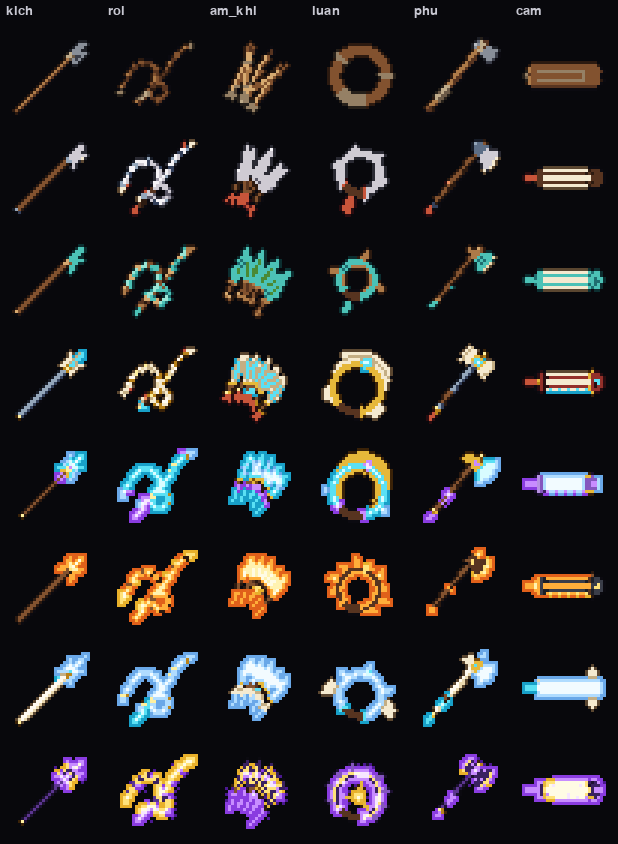
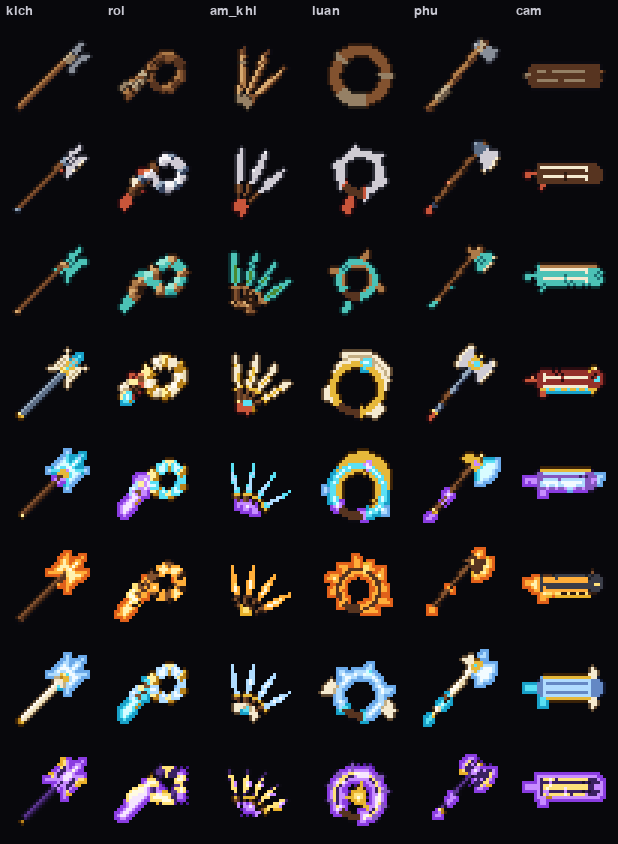
Toán tu tiên: kỳ binh vòng sửa 1-2: lưỡi nguyệt kích lớn, roi cuộn gọn, ám khí tách lưỡi, cầm có dây và nhạn trụ

diff --git a/art/src/weapons_c/models.py b/art/src/weapons_c/models.py
@@ -74,7 +74,7 @@ def crescent(s, zc, R, th, alpha=65.0, gap=0.02, x0=0.036, n=12, teeth=0):
 def kich(w, g):
     T = TH[g]
     sk = {1: "wood", 2: "wood_d", 3: "wood_d", 4: "iron_d", 5: "gold_dk", 6: "gold_dk", 7: "ice_w", 8: "purple"}[g]
-    base = 1.0
+    base = 0.84
     shaft(w, sk, -0.24, base + 0.04, 0.036)
     grip_block(w, g, 0.03)
     butt = {1: "wood_d", 2: "iron_d", 3: "bronze", 4: "gold", 5: "gold", 6: "gold_dk", 7: "gold", 8: "gold"}[g]
@@ -86,10 +86,10 @@ def kich(w, g):
     # socket collar
     sock = {1: "hemp", 2: "iron_d", 3: "bronze", 4: "gold", 5: "gold", 6: "gold_dk", 7: "gold", 8: "gold"}[g]
     w.cyl(sock, (0, 0, base + 0.02), 0.048, 0.04, 0.1, seg=8)
-    zc = base + 0.12
+    zc = base + 0.08
     # spear point
-    tip = {1: 1.42, 2: 1.45, 3: 1.46, 4: 1.5, 5: 1.52, 6: 1.52, 7: 1.52, 8: 1.56}[g]
-    hw = {1: 0.06, 2: 0.055, 3: 0.06, 4: 0.05, 5: 0.06, 6: 0.065, 7: 0.055, 8: 0.065}[g]
+    tip = base + {1: 0.38, 2: 0.42, 3: 0.44, 4: 0.48, 5: 0.5, 6: 0.5, 7: 0.5, 8: 0.54}[g]
+    hw = {1: 0.05, 2: 0.045, 3: 0.05, 4: 0.042, 5: 0.05, 6: 0.065, 7: 0.046, 8: 0.055}[g]
     if g == 6:      # wavy flame point
         pts = [(0.0, tip), (0.045, tip - 0.12), (0.02, tip - 0.15), (0.065, tip - 0.24), (0.035, tip - 0.27),
                (0.05, base + 0.2), (0.025, base + 0.07)]
@@ -107,13 +107,13 @@ def kich(w, g):
                                                     (0.01, tip - 0.1), (0.01, base + 0.14)], -0.022, -0.012, 0)
     # crescent side blades: one ("thanh long kich") up to grade 3, two ("phuong thien kich") from 4
     sides = (1,) if g <= 3 else (1, -1)
-    R = {1: 0.17, 2: 0.19, 3: 0.2, 4: 0.19, 5: 0.2, 6: 0.2, 7: 0.19, 8: 0.21}[g]
-    th = {1: 0.08, 2: 0.07, 3: 0.075, 4: 0.068, 5: 0.07, 6: 0.065, 7: 0.068, 8: 0.072}[g]
-    alpha = {1: 66, 2: 74, 3: 76, 4: 76, 5: 80, 6: 76, 7: 76, 8: 82}[g]
+    R = {1: 0.25, 2: 0.27, 3: 0.28, 4: 0.27, 5: 0.28, 6: 0.28, 7: 0.27, 8: 0.29}[g]
+    th = {1: 0.12, 2: 0.11, 3: 0.115, 4: 0.105, 5: 0.11, 6: 0.1, 7: 0.105, 8: 0.11}[g]
+    alpha = {1: 60, 2: 66, 3: 68, 4: 68, 5: 70, 6: 68, 7: 68, 8: 72}[g]
     for s in sides:
-        back, ed = crescent(s, zc, R, th, alpha, teeth=0.03 if g == 6 else 0)
+        back, ed = crescent(s, zc, R, th, alpha, gap=0.045, teeth=0.03 if g == 6 else 0)
         if g == 8:
-            b2, e2 = crescent(s, zc, R + 0.015, th + 0.025, alpha, gap=0.0)
+            b2, e2 = crescent(s, zc, R + 0.015, th + 0.025, alpha, gap=0.03)
             w.strip("violet", b2, [(x + s * 0.0, z) for x, z in e2], 0.008, 0.014)
         w.strip(blade, back, ed, -ty / 2, ty / 2)
         # bright cutting edge along the concave side
@@ -121,10 +121,10 @@ def kich(w, g):
         if g in (2, 4, 5, 7, 8):
             w.strip(edge if g != 8 else "gold_e", inner, ed, -ty / 2 - 0.004, -ty / 2 + 0.004)
         # two bars tie the crescent to the shaft
-        for dz in (-0.05, 0.05):
-            w.box(T["trim"] if g > 1 else "hemp", (s * 0.045, 0, zc + dz), (0.05, 0.03, 0.022), bevel=0.003)
+        for dz in (-0.06, 0.06):
+            w.box(T["trim"] if g > 1 else "hemp", (s * 0.06, 0, zc + dz), (0.06, 0.03, 0.026), bevel=0.003)
         if g == 1:   # hemp lashing over the stone
-            w.box("hemp", (s * 0.06, 0, zc), (0.05, 0.034, 0.05), bevel=0.004)
+            w.box("hemp", (s * 0.075, 0, zc), (0.05, 0.034, 0.05), bevel=0.004)
         if g == 7:
             wings(w, "ice_w", zc - 0.14, 3, 0.13, 0.045, rise0=-60, step=18, base_x=0.04, sides=(s,))
     if g == 1:
@@ -146,7 +146,7 @@ def kich(w, g):
         for s in (-1, 1):
             w.cyl("gold_dk", (s * 0.05, 0, base + 0.02), 0.022, 0.0, 0.09, rot=(0, s * 60, 0), seg=4)
     if g == 8:
-        stars(w, "star", [(-0.02, 1.3), (0.015, 1.4), (0.0, 1.22), (0.17, zc + 0.12), (-0.17, zc - 0.1)], -0.026, 0.015)
+        stars(w, "star", [(-0.02, base + 0.3), (0.015, base + 0.4), (0.0, base + 0.22), (0.17, zc + 0.12), (-0.17, zc - 0.1)], -0.026, 0.015)
 
 
 # ======================================================================= PHU (battle axe, ~0.95 m)
@@ -214,8 +214,8 @@ def phu(w, g):
         w.cyl("bronze", (0, 0, hc + 0.1), 0.04, 0.03, 0.04, seg=8)
     elif g == 4:  # double-bit steel, gold, teal gem
         for s in (1, -1):
-            out, ed = axe_blade(s, hc, 0.19, hc + 0.14, hc - 0.14, 0.045, neck=0.06)
-            w.poly(blade, out, -tb / 2, tb / 2, 0.006)
+            out, ed = axe_blade(s, hc, 0.19, hc + 0.19, hc - 0.19, 0.05, neck=0.045)
+            w.poly("iron", out, -tb / 2, tb / 2, 0.006)
             edge_band(w, edge, ed, s, 0.02, -tb / 2 - 0.004, tb / 2 + 0.004)
             w.box("gold", (s * 0.075, 0, hc), (0.03, tb + 0.012, 0.15), bevel=0.004)
         w.sph("teal", (0, -0.045, hc), 0.04, seg=6)
@@ -357,8 +357,8 @@ def roi_body(w, g, pose):
         tassel_dir(w, "hemp", p, d, 3, 0.07)
         return
     nseg = {2: 6, 3: 6, 4: 7, 5: 7, 6: 7, 7: 7, 8: 7}[g]
-    seg_key = {2: "iron", 3: "jade", 4: "steel", 5: "cyan", 6: "flame", 7: "ice", 8: "purple"}[g]
-    ring_key = {2: "iron_d", 3: "bronze", 4: "gold", 5: "gold", 6: "gold_dk", 7: "gold", 8: "gold_e"}[g]
+    seg_key = {2: "iron", 3: "jade", 4: "steel", 5: "cyan_n", 6: "flame_n", 7: "ice_n", 8: "purple"}[g]
+    ring_key = {2: "iron_d", 3: "bronze", 4: "gold", 5: "gold", 6: "gold_dk", 7: "gold", 8: "gold_e_n"}[g]
     r = {2: 0.028, 3: 0.03, 4: 0.03, 5: 0.03, 6: 0.032, 7: 0.03, 8: 0.032}[g]
     gapt = 0.012 / total
     for i in range(nseg):
@@ -366,11 +366,11 @@ def roi_body(w, g, pose):
         (a, _), (b, _) = at(t0), at(t1)
         rr = r * (1 - 0.15 * i / nseg)
         w.seg(seg_key, P(a, i), P(b, i), rr, rr, 8)
-        if g == 6:     # little flame licks on every other link
+        if g == 6 and pose == "lash":     # little flame licks on every other link
             if i % 2:
                 (m, d) = at((t0 + t1) / 2)
                 nx, nz = -d[1], d[0]
-                w.seg("flame_y", P(m, i), P((m[0] + nx * 0.05, m[1] + nz * 0.05), i), 0.016, 0.002, 4)
+                w.seg("flame_y", P(m, i), P((m[0] + nx * 0.035, m[1] + nz * 0.035), i), 0.01, 0.002, 4)
         p, _ = at(tip_t * (i + 1) / nseg)
         w.sph(ring_key, P(p, i), r * 1.2, seg=6)
     # the dart at the tip
@@ -378,7 +378,7 @@ def roi_body(w, g, pose):
     ang = math.degrees(math.atan2(d[0], d[1]))
     ln = {2: 0.08, 3: 0.09, 4: 0.1, 5: 0.1, 6: 0.11, 7: 0.1, 8: 0.11}[g]
     wd = {2: 0.03, 3: 0.034, 4: 0.04, 5: 0.036, 6: 0.04, 7: 0.036, 8: 0.042}[g]
-    tipk = {2: "steel", 3: "bronze", 4: "steel", 5: "cyan_hi", 6: "flame_y", 7: "ice_hi", 8: "gold_e"}[g]
+    tipk = {2: "steel", 3: "bronze", 4: "steel", 5: "cyan_hi_n", 6: "flame_y_n", 7: "ice_hi_n", 8: "gold_e_n"}[g]
     w.poly(tipk, leaf_pts(p, ang, ln, wd, widest=0.3, back=0.05), -0.012, 0.012, 0.003)
     if g == 7:
         for s in (-1, 1):
@@ -431,7 +431,7 @@ def dart(w, g, base, ang, flying=False):
     def p(t):
         return (base[0] + d[0] * t, base[1] + d[1] * t)
     T = TH[g]
-    bl = {1: "wood_l", 2: "iron", 3: "jade", 4: "steel", 5: "cyan", 6: "flame", 7: "ice", 8: "purple"}[g]
+    bl = {1: "wood_l", 2: "iron", 3: "jade", 4: "steel", 5: "cyan_n", 6: "flame_n", 7: "ice_n", 8: "purple"}[g]
     L = {1: 0.3, 2: 0.3, 3: 0.31, 4: 0.32, 5: 0.33, 6: 0.32, 7: 0.32, 8: 0.34}[g]
     if g == 1:   # sharpened bamboo dart, hemp fletching
         h0 = p(0.0)
@@ -458,32 +458,32 @@ def dart(w, g, base, ang, flying=False):
     # blade
     if g == 6:   # flame-shaped blade
         base_b = p(0.07)
-        w.poly(bl, leaf_pts(base_b, ang, L - 0.07, 0.034, widest=0.25), -0.012, 0.012, 0.003)
+        w.poly(bl, leaf_pts(base_b, ang, L - 0.07, 0.022, widest=0.25), -0.012, 0.012, 0.003)
         for s in (-1, 1):
-            w.poly("flame", leaf_pts(p(0.12), ang + s * 16, 0.12, 0.016), -0.01, 0.01, 0.002)
-        w.poly("flame_y", leaf_pts(p(0.1), ang, 0.12, 0.012), -0.02, -0.012, 0)
+            w.poly("flame_n", leaf_pts(p(0.1), ang + s * 14, 0.1, 0.01), -0.01, 0.01, 0.002)
+        w.poly("flame_y_n", leaf_pts(p(0.1), ang, 0.12, 0.012), -0.02, -0.012, 0)
     elif g == 5:  # glowing needle
-        w.poly(bl, leaf_pts(p(0.07), ang, L - 0.07, 0.02, widest=0.15), -0.01, 0.01, 0.002)
-        w.poly("cyan_hi", leaf_pts(p(0.09), ang, L - 0.13, 0.008, widest=0.15), -0.016, -0.008, 0)
+        w.poly(bl, leaf_pts(p(0.07), ang, L - 0.07, 0.014, widest=0.15), -0.01, 0.01, 0.002)
+        w.poly("cyan_hi_n", leaf_pts(p(0.09), ang, L - 0.13, 0.008, widest=0.15), -0.016, -0.008, 0)
         q = p(0.0)
         w.ico("violet", (q[0], -0.012, q[1]), 0.018)
     elif g == 7:  # ice shard with a pair of tiny wings at the tail
-        w.poly(bl, leaf_pts(p(0.07), ang, L - 0.07, 0.03, widest=0.5), -0.012, 0.012, 0.002)
-        w.poly("ice_hi", leaf_pts(p(0.1), ang, L - 0.15, 0.01, widest=0.5), -0.02, -0.012, 0)
+        w.poly(bl, leaf_pts(p(0.07), ang, L - 0.07, 0.02, widest=0.5), -0.012, 0.012, 0.002)
+        w.poly("ice_hi_n", leaf_pts(p(0.1), ang, L - 0.15, 0.01, widest=0.5), -0.02, -0.012, 0)
         for s in (-1, 1):
             w.poly("ice_w", leaf_pts(p(0.01), ang + 180 + s * 38, 0.08, 0.022), -0.01, 0.01, 0.002)
     elif g == 8:  # star blade
-        w.poly(bl, leaf_pts(p(0.07), ang, L - 0.07, 0.034, widest=0.4), -0.012, 0.012, 0.003)
-        w.poly("gold_e", leaf_pts(p(0.1), ang, L - 0.14, 0.01, widest=0.4), -0.02, -0.012, 0)
+        w.poly(bl, leaf_pts(p(0.07), ang, L - 0.07, 0.022, widest=0.4), -0.012, 0.012, 0.003)
+        w.poly("gold_e_n", leaf_pts(p(0.1), ang, L - 0.14, 0.01, widest=0.4), -0.02, -0.012, 0)
         q = p(0.0)
-        w.sph("star", (q[0], -0.012, q[1]), 0.02, seg=6)
+        w.sph("star_n", (q[0], -0.012, q[1]), 0.02, seg=6)
         q = p(L * 0.6)
-        w.box("star", (q[0] + 0.03, -0.02, q[1]), (0.028, 0.02, 0.028), bevel=0)
+        w.box("star_n", (q[0] + 0.03, -0.02, q[1]), (0.028, 0.02, 0.028), bevel=0)
     else:         # willow-leaf throwing knife
-        wd = {2: 0.036, 3: 0.04, 4: 0.04}[g]
+        wd = {2: 0.02, 3: 0.023, 4: 0.023}[g]
         w.poly(bl, leaf_pts(p(0.07), ang, L - 0.07, wd, widest=0.35), -0.012, 0.012, 0.003)
         if g >= 3:
-            w.poly(T["hi"] if g == 4 else "jade_d", leaf_pts(p(0.1), ang, L - 0.15, 0.009, widest=0.35),
+            w.poly("gold" if g == 4 else "jade_d", leaf_pts(p(0.1), ang, L - 0.15, 0.009, widest=0.35),
                    -0.02, -0.012, 0)
     # tails (cloth streamers) on the ring
     if g in (2, 4):
@@ -499,18 +499,19 @@ def dart(w, g, base, ang, flying=False):
 
 
 def am_khi(w, g):
-    n = {1: 3, 2: 3, 3: 4, 4: 5, 5: 5, 6: 5, 7: 5, 8: 5}[g]
-    spread = {1: 50, 2: 56, 3: 62, 4: 70, 5: 72, 6: 72, 7: 72, 8: 76}[g]
-    # in the hand: a fan between the fingers
+    n = {1: 3, 2: 3, 3: 4, 4: 4, 5: 4, 6: 4, 7: 4, 8: 5}[g]
+    step = {1: 22, 2: 22, 3: 19, 4: 21, 5: 24, 6: 24, 7: 24, 8: 20}[g]
+    # in the hand: a fan between the fingers (bases spread across the fist, tips fanned)
     w.pose = "hand"
     for k in range(n):
-        a = -spread / 2 + spread * k / max(1, n - 1)
+        off = k - (n - 1) / 2
+        a = off * step
         w.xf = geom.Matrix.Translation((0, (k % 2) * 0.012 - 0.006, 0))
-        dart(w, g, (math.sin(math.radians(a)) * 0.02, -0.02), a)
+        dart(w, g, (off * (0.035 if g < 5 else 0.045), -0.02 - abs(off) * 0.02), a)
     w.xf = geom.Matrix.Identity(4)
     if g >= 4:   # hub ornament where the blades cross
         hub = {4: "teal", 5: "violet", 6: "flame_y", 7: "cyan", 8: "star"}[g]
-        w.sph(hub, (0, -0.03, -0.01), 0.022, seg=6)
+        w.sph(hub, (0, -0.03, -0.05), 0.02, seg=6)
     # in flight: the blades spread side by side, pointing the same way
     w.pose = "fly"
     for k in range(n):
@@ -633,8 +634,8 @@ def zither_outline(g, L=0.4, Wd=0.085):
 
 def cam(w, g):
     T = TH[g]
-    L, Wd = 0.42, 0.11
-    body = {1: "wood", 2: "wood_d", 3: "jade", 4: "lacquer", 5: "purple_l", 6: "black", 7: "ice", 8: "purple"}[g]
+    L, Wd = 0.42, 0.13
+    body = {1: "wood_d", 2: "wood_d", 3: "jade", 4: "lacquer", 5: "purple_l", 6: "black", 7: "frost", 8: "purple"}[g]
     side = {1: "wood", 2: "lacq_d", 3: "jade_d", 4: "lacq_d", 5: "purple", 6: "black", 7: "ice_w", 8: "purple"}[g]
     th = 0.05
     out = zither_outline(g, L, Wd)
@@ -653,8 +654,11 @@ def cam(w, g):
     skey = {1: "hemp", 2: "string", 3: "string", 4: "string", 5: "cyan_hi", 6: "ember", 7: "ice_hi", 8: "gold_e"}[g]
     nstr = 3 if g == 1 else 4
     for i in range(nstr):
-        x = (i - (nstr - 1) / 2) * 0.05
+        x = (i - (nstr - 1) / 2) * 0.056
         w.box(skey, (x, -th / 2 - 0.016, -L * 0.15), (0.022, 0.008, L * 1.42), bevel=0)
+        # one movable bridge under each string, set in a slanting row (the zither's tell-tale)
+        zb = -L * 0.45 + i * 0.07
+        w.box(br, (x, -th / 2 - 0.012, zb), (0.03, 0.02, 0.03), bevel=0.003)
     # hui studs along the near edge (grade 2+)
     if g >= 2:
         hk = {2: "bone", 3: "jade_l", 4: "teal", 5: "violet", 6: "flame_y", 7: "cyan", 8: "star"}[g]
@@ -671,6 +675,10 @@ def cam(w, g):
     for s in (-1, 1):
         w.cyl(T["trim"], (s * 0.035, 0.01, -L - 0.01), 0.016, 0.016, 0.03, seg=6)
     tassel(w, tc, (0.0, 0.0, -L - 0.03), n=3, length=0.12 if g < 4 else 0.15)
+    # a second tassel hanging from the edge of the tail (it hangs down when the zither is held flat)
+    for k in range(2):
+        w.seg(tc, (Wd - 0.01, 0, -L * 0.8 - k * 0.03), (Wd + 0.1, 0, -L * 0.82 - k * 0.04), 0.009, 0.006, 5)
+    w.sph(tc, (Wd - 0.005, 0, -L * 0.81), 0.018, seg=6)
     if g == 3:
         w.sph("jade_d", (0, -th / 2 - 0.004, L * 0.82), 0.03, scale=(1, 0.4, 1), seg=8)
     elif g == 4:   # carved cloud head, gold disc, teal gem

diff --git a/art/src/weapons_c/geom.py b/art/src/weapons_c/geom.py
@@ -38,16 +38,22 @@ LIB = {
     "violet": ("a064ff", 0.0, 0.3, 2.5),
     "flame": ("ff5a19", 0.0, 0.3, 1.6), "flame_y": ("ffcd46", 0.0, 0.2, 3.0), "ember": ("ff3a10", 0.0, 0.3, 2.2),
     "ice": ("5cb4ff", 0.0, 0.25, 1.1), "ice_hi": ("f0fcff", 0.0, 0.2, 2.0),
-    "ice_w": ("e6f6ff", 0.2, 0.3, 0.0),
+    "ice_w": ("e6f6ff", 0.2, 0.3, 0.0), "frost": ("6aaee8", 0.0, 0.3, 0.0),
     "purple": ("34248a", 0.1, 0.4, 0.12), "purple_l": ("7a46c8", 0.1, 0.4, 0.3),
     "gold_e": ("ffc850", 0.0, 0.2, 2.6), "star": ("fff0c8", 0.0, 0.2, 5.0),
+    # the same glows without the 1 px halo: thin parts that sit close together (darts)
+    "cyan_n": ("5ad2ff", 0.0, 0.3, 1.5), "flame_n": ("ff5a19", 0.0, 0.3, 1.6), "ice_n": ("5cb4ff", 0.0, 0.25, 1.1),
+    "cyan_hi_n": ("d2faff", 0.0, 0.2, 3.0), "flame_y_n": ("ffcd46", 0.0, 0.2, 3.0), "ice_hi_n": ("f0fcff", 0.0, 0.2, 2.0),
+    "gold_e_n": ("ffc850", 0.0, 0.2, 2.6), "star_n": ("fff0c8", 0.0, 0.2, 5.0),
 }
+NO_HALO = {k for k in LIB if k.endswith("_n")}
 RAMP = {"wood": "wood", "wood_d": "wood", "wood_l": "wood", "hemp": "earth", "rope": "earth",
         "leather": "wood", "leather_l": "wood", "stone": "stone", "stone_l": "stone", "bone": "bone",
-        "lacquer": "red", "lacq_d": "red", "string": "paper", "black": "stone"}
-PRIO = {"teal": 3.0, "star": 3.0, "gold_e": 2.0, "violet": 2.0, "flame_y": 2.0, "cyan_hi": 2.0,
+        "lacquer": "red", "lacq_d": "red", "frost": "blue", "string": "paper", "black": "stone"}
+PRIO = {"teal": 3.0, "star": 3.0, "star_n": 3.0, "gold_e_n": 2.0, "gold_e": 2.0, "violet": 2.0, "flame_y": 2.0, "cyan_hi": 2.0,
         "string": 1.5}
-GLOW = {"purple": 0, "purple_l": 0, "star": "cosmic", "gold_e": "holy", "violet": "cosmic"}
+GLOW = {"purple": 0, "purple_l": 0, "star": "cosmic", "gold_e": "holy", "violet": "cosmic",
+        "star_n": "cosmic", "gold_e_n": "holy"}
 NO_METAL = {"string": 0}
 
 
@@ -79,6 +85,8 @@ def mat(key):
         m["kit_priority"] = PRIO[key]
     if key in GLOW:
         m["kit_glow"] = GLOW[key]
+    if key in NO_HALO:
+        m["kit_halo"] = 0
     if key in NO_METAL:
         m["kit_metal"] = NO_METAL[key]
     _mat_cache[key] = m

diff --git a/art/src/weapons_c/zoom.py b/art/src/weapons_c/zoom.py
@@ -1,0 +1,36 @@
+"""Dev aid (venv python): icons of the weapons_c atlas at 5x, side by side, for look rounds.
+
+    python art/src/weapons_c/zoom.py kich_1,kich_2 [out.png]     (default art/render/weapons_c/zoom.png)
+"""
+import json
+import os
+import sys
+from pathlib import Path
+
+os.environ.setdefault("SDL_VIDEODRIVER", "dummy")
+import pygame  # noqa: E402
+
+ROOT = Path(__file__).resolve().parents[3]
+ATLAS = ROOT / "client/assets/v2/icons/weapons_c"
+
+
+def main(argv):
+    ids = argv[0].split(",")
+    out = Path(argv[1]) if len(argv) > 1 else ROOT / "art/render/weapons_c/zoom.png"
+    pygame.init()
+    d = json.loads(ATLAS.with_suffix(".json").read_text("utf-8"))
+    s = pygame.image.load(str(ATLAS.with_suffix(".png")))
+    z, c = 5, d["cell"]
+    img = pygame.Surface((len(ids) * (c * z + 4), c * z))
+    img.fill((8, 8, 12))
+    for k, i in enumerate(ids):
+        n = d["icons"][i]["index"]
+        cell = s.subsurface(((n % d["cols"]) * c, (n // d["cols"]) * c, c, c))
+        img.blit(pygame.transform.scale(cell, (c * z, c * z)), (k * (c * z + 4), 0))
+    out.parent.mkdir(parents=True, exist_ok=True)
+    pygame.image.save(img, str(out))
+    print(out)
+
+
+if __name__ == "__main__":
+    main(sys.argv[1:])

diff --git a/art/src/weapons_c/scene.py b/art/src/weapons_c/scene.py
@@ -18,12 +18,12 @@ ICON_DIR = "client/assets/v2/icons"
 
 # icon pose per type: angle = lean of +Z toward the upper right, spin = turn about its own axis
 POSE = {
-    "kich": dict(angle=45, spin=12),
+    "kich": dict(angle=45, spin=0),
     "roi": dict(angle=40, spin=0),
-    "am_khi": dict(angle=30, spin=0),
+    "am_khi": dict(angle=25, spin=0),
     "luan": dict(angle=20, spin=0),
     "phu": dict(angle=40, spin=10),
-    "cam": dict(angle=90, spin=0, tilt=-25),
+    "cam": dict(angle=90, spin=0),
 }
 
 
@@ -42,7 +42,7 @@ def main():
     for wid in only:
         root = models.make(wid)
         t = root["type"]
-        icons.append({"id": wid, "objects": [root] + geom.visible_children(root),
+        icons.append({"id": wid, "objects": geom.visible_children(root),
                       "name_vi": root["name_vi"], "grade": int(root["grade"]), **POSE[t]})
     kit.render_icons("weapons_c", icons, ICON_DIR, cols=8)
 
